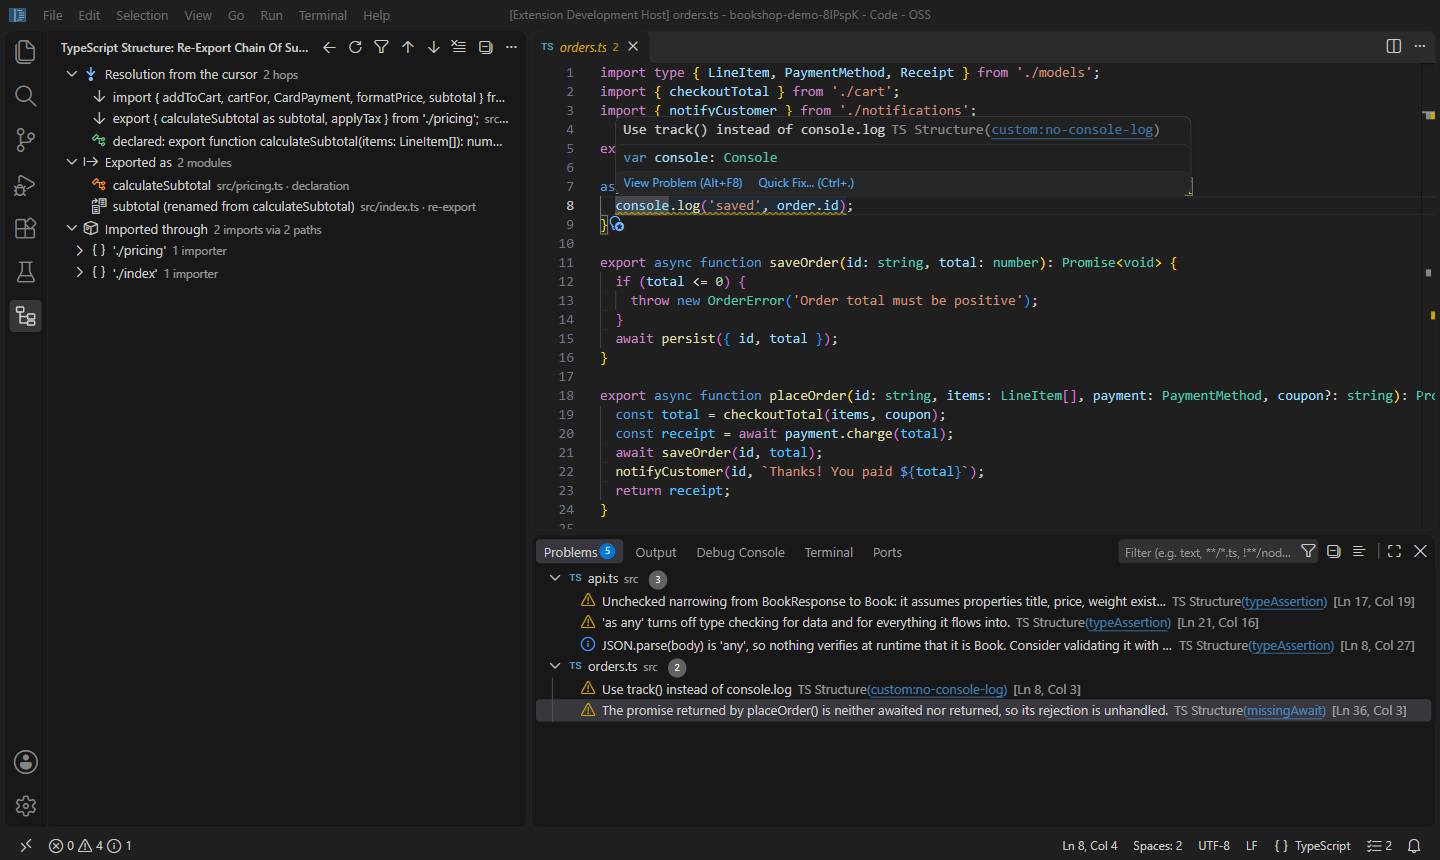
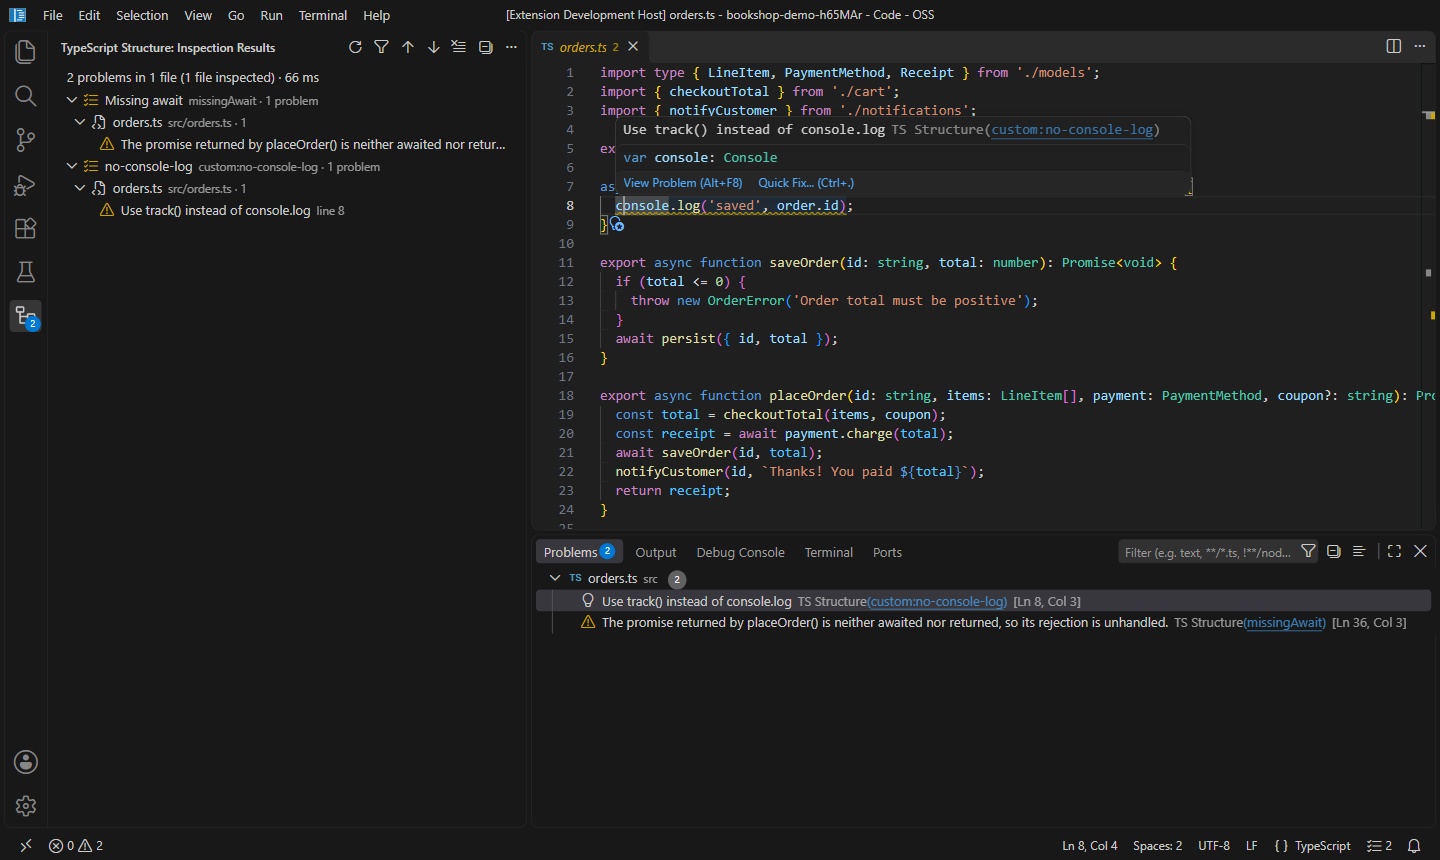
Guide: Custom Inspection Builder, with a screenshot
Custom inspections' diagnostic codes linked to a README anchor that does not exist (#inspections-custom:id); they now link to this guide.

diff --git a/src/ui/inspectionDiagnostics.ts b/src/ui/inspectionDiagnostics.ts
@@ -21,6 +21,8 @@ const severities: Record<Severity, vscode.DiagnosticSeverity> = {
 };
 
 const docsUrl = 'https://github.com/RishiRajGujadhur/VSExtension#inspections';
+/** Custom inspections are documented together, in the builder's guide. */
+const customDocsUrl = 'https://github.com/RishiRajGujadhur/VSExtension#custom-inspection-builder';
 const fixAllKind = vscode.CodeActionKind.SourceFixAll.append('tsStructure');
 
 /** Analyses that explain a finding in depth, offered from its lightbulb. */
@@ -308,7 +310,8 @@ function toDiagnostic(document: vscode.TextDocument, finding: Finding): vscode.D
   const range = new vscode.Range(document.positionAt(finding.start), document.positionAt(finding.end));
   const diagnostic = new vscode.Diagnostic(range, finding.message, severities[finding.severity]);
   diagnostic.source = 'TS Structure';
-  diagnostic.code = { value: finding.inspection, target: vscode.Uri.parse(`${docsUrl}-${finding.inspection.toLowerCase()}`) };
+  const docs = finding.inspection.startsWith('custom:') ? customDocsUrl : `${docsUrl}-${finding.inspection.toLowerCase()}`;
+  diagnostic.code = { value: finding.inspection, target: vscode.Uri.parse(docs) };
   if (finding.unnecessary) {
     diagnostic.tags = [vscode.DiagnosticTag.Unnecessary];
   }

diff --git a/README.md b/README.md
@@ -458,6 +458,17 @@ Every analysis can be started three ways: from the editor's right-click menu und
 4. Click **Replace All…**, or press `Ctrl+Enter` in the replacement. The changes open in VS Code's Refactor Preview, where you can untick individual files or changes before applying them. Turn off `tsStructure.previewRefactorings` to apply directly.
 5. A replacement that doesn't parse is refused before anything is written, with the file and line where it breaks. Use **Undo** (`Ctrl+Z`) in the edited files to revert an applied replacement.
 
+### Custom Inspection Builder
+
+![A saved no-console-log inspection underlines console.log in orders.ts with "Use track() instead of console.log", in the hover, the Problems panel and the Inspect Code report](docs/images/custom-inspections.png)
+
+1. In **Structural Search…**, write and test a pattern until it finds exactly what you want to flag. For example, `console.log($args*$)`.
+2. Optionally write a **Replace with** template. It becomes the inspection's quick fix.
+3. Under **Save as inspection**, write the message, for example *Use track() instead of console.log*. Placeholders such as `$args$` are filled in from each match. Choose a severity and click **Save as Inspection**.
+4. The inspection is saved in the workspace's `tsStructure.customInspections` setting, so it is shared through `.vscode/settings.json`. It runs live on visible files like the built-in inspections: an underline, a hover, the Problems panel, the quick fix and a fix-all for the file.
+5. **Inspect Code…** includes custom inspections, so the whole project can be checked at once.
+6. Run **Manage Custom Inspections…** to edit an inspection in the builder, disable or enable it, or delete it.
+
 ## Test Impact Analysis
 
 ### Usage
